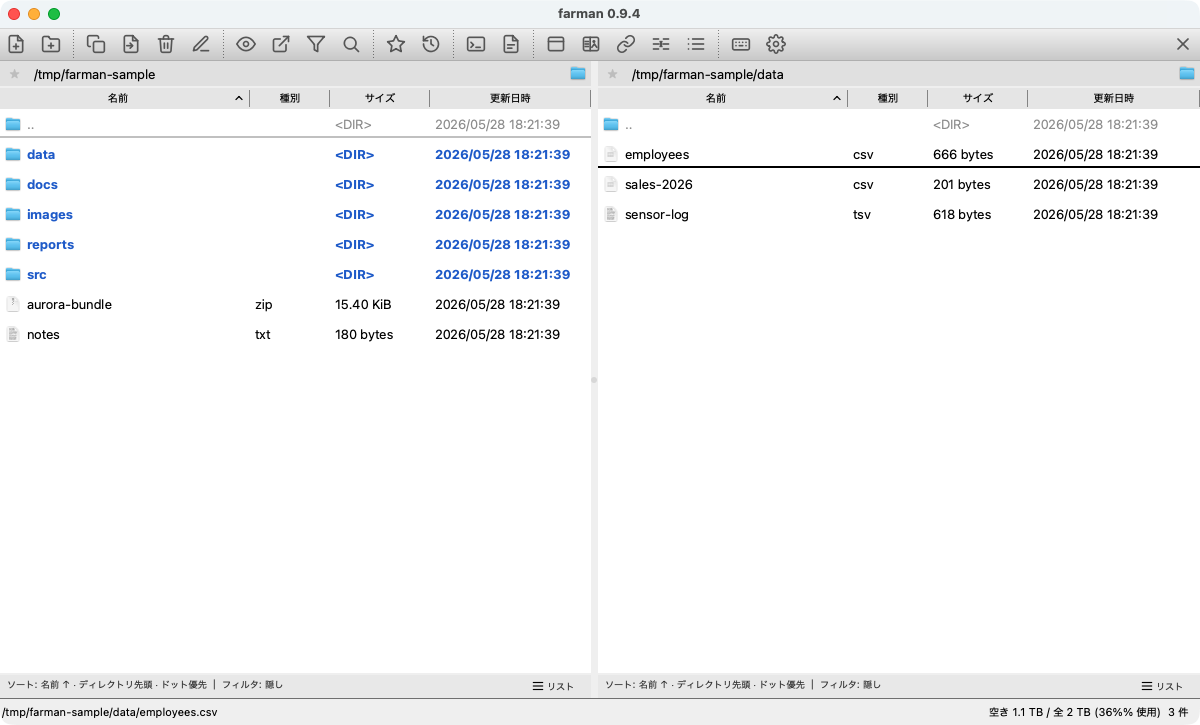
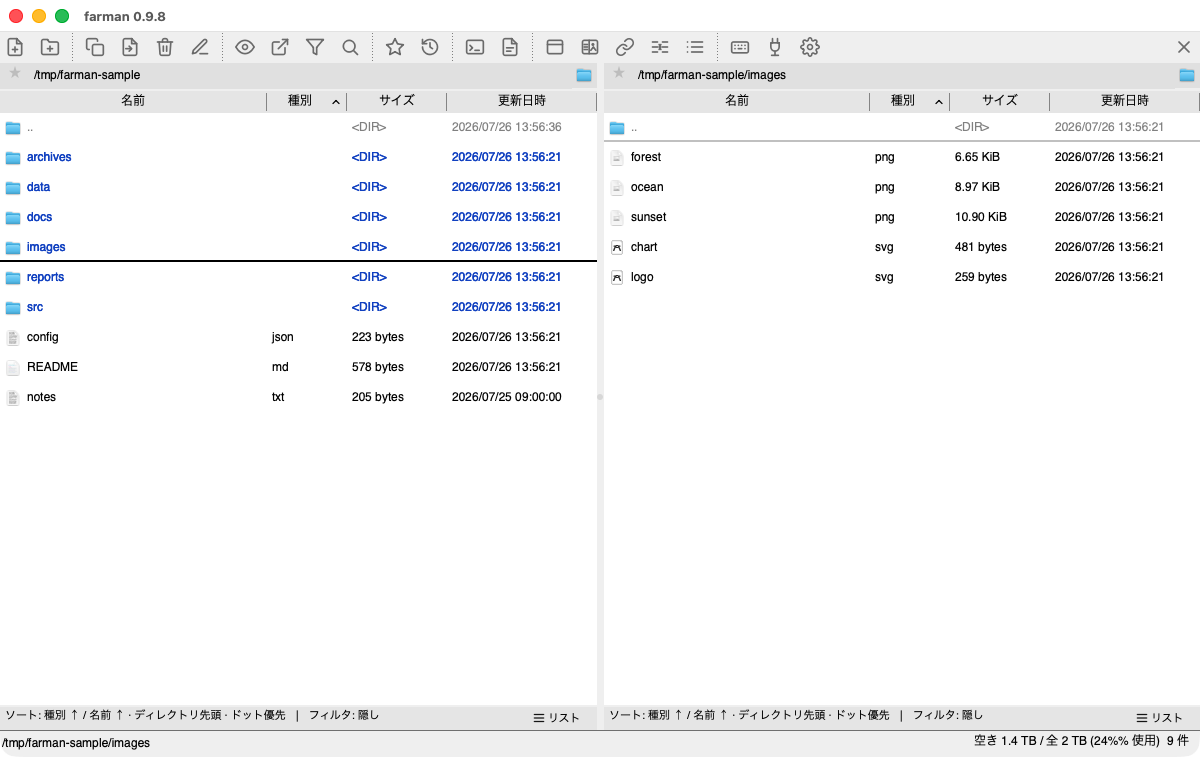
docs(site): update the main 2-pane screenshot (01-main-2pane)
スクショ画像を新版に差し替え (1200x725 → 1200x757)。マニュアルの
ハードコード height も 757 に更新して縦潰れを防止 (JP/EN)。トップ・
スクリーンショット節は CSS 表示なので参照はそのまま。

diff --git a/docs/manual/index.html b/docs/manual/index.html
@@ -108,7 +108,7 @@
       <ul class="doc-list">
         <li class="f-item"><strong>表示レイアウト</strong>: <strong>デュアルペイン（2 画面）/ シングルペイン（1 画面）/ プレビュー（Quick View）</strong> の 3 種類。<code>Ctrl+O</code> でデュアル / シングルを切替、プレビューはツールバー / 設定から。プレビューは片側でファイルを選ぶと、もう片側に内容を即表示します。（設定・コマンドでは「2 画面 / 1 画面」とも表記）
           <div class="doc-figure-row">
-            <figure class="doc-figure"><img src="../screenshots/01-main-2pane.png" width="1200" height="725" alt="デュアルペイン（2 画面）" loading="lazy" /><figcaption>デュアルペイン（2 画面）</figcaption></figure>
+            <figure class="doc-figure"><img src="../screenshots/01-main-2pane.png" width="1200" height="757" alt="デュアルペイン（2 画面）" loading="lazy" /><figcaption>デュアルペイン（2 画面）</figcaption></figure>
             <figure class="doc-figure"><img src="../screenshots/15-single-pane.png" width="1200" height="729" alt="シングルペイン（1 画面）" loading="lazy" /><figcaption>シングルペイン（1 画面）</figcaption></figure>
             <figure class="doc-figure"><img src="../screenshots/10-preview-mode.png" width="1200" height="725" alt="プレビュー（Quick View）" loading="lazy" /><figcaption>プレビュー（Quick View）</figcaption></figure>
           </div></li>

diff --git a/docs/en/manual/index.html b/docs/en/manual/index.html
@@ -108,7 +108,7 @@
       <ul class="doc-list">
         <li class="f-item"><strong>Display layout</strong>: choose among <strong>dual pane (two panes) / single pane (one pane) / preview (Quick View)</strong>. Toggle dual / single with <code>Ctrl+O</code>; switch to preview from the toolbar / settings. In preview, selecting a file on one side shows its content instantly on the other. (Settings and commands also call these “two panes / one pane”.)
           <div class="doc-figure-row">
-            <figure class="doc-figure"><img src="../../screenshots/01-main-2pane.png" width="1200" height="725" alt="Dual pane (two panes)" loading="lazy" /><figcaption>Dual pane (two panes)</figcaption></figure>
+            <figure class="doc-figure"><img src="../../screenshots/01-main-2pane.png" width="1200" height="757" alt="Dual pane (two panes)" loading="lazy" /><figcaption>Dual pane (two panes)</figcaption></figure>
             <figure class="doc-figure"><img src="../../screenshots/15-single-pane.png" width="1200" height="729" alt="Single pane (one pane)" loading="lazy" /><figcaption>Single pane (one pane)</figcaption></figure>
             <figure class="doc-figure"><img src="../../screenshots/10-preview-mode.png" width="1200" height="725" alt="Preview (Quick View)" loading="lazy" /><figcaption>Preview (Quick View)</figcaption></figure>
           </div></li>
